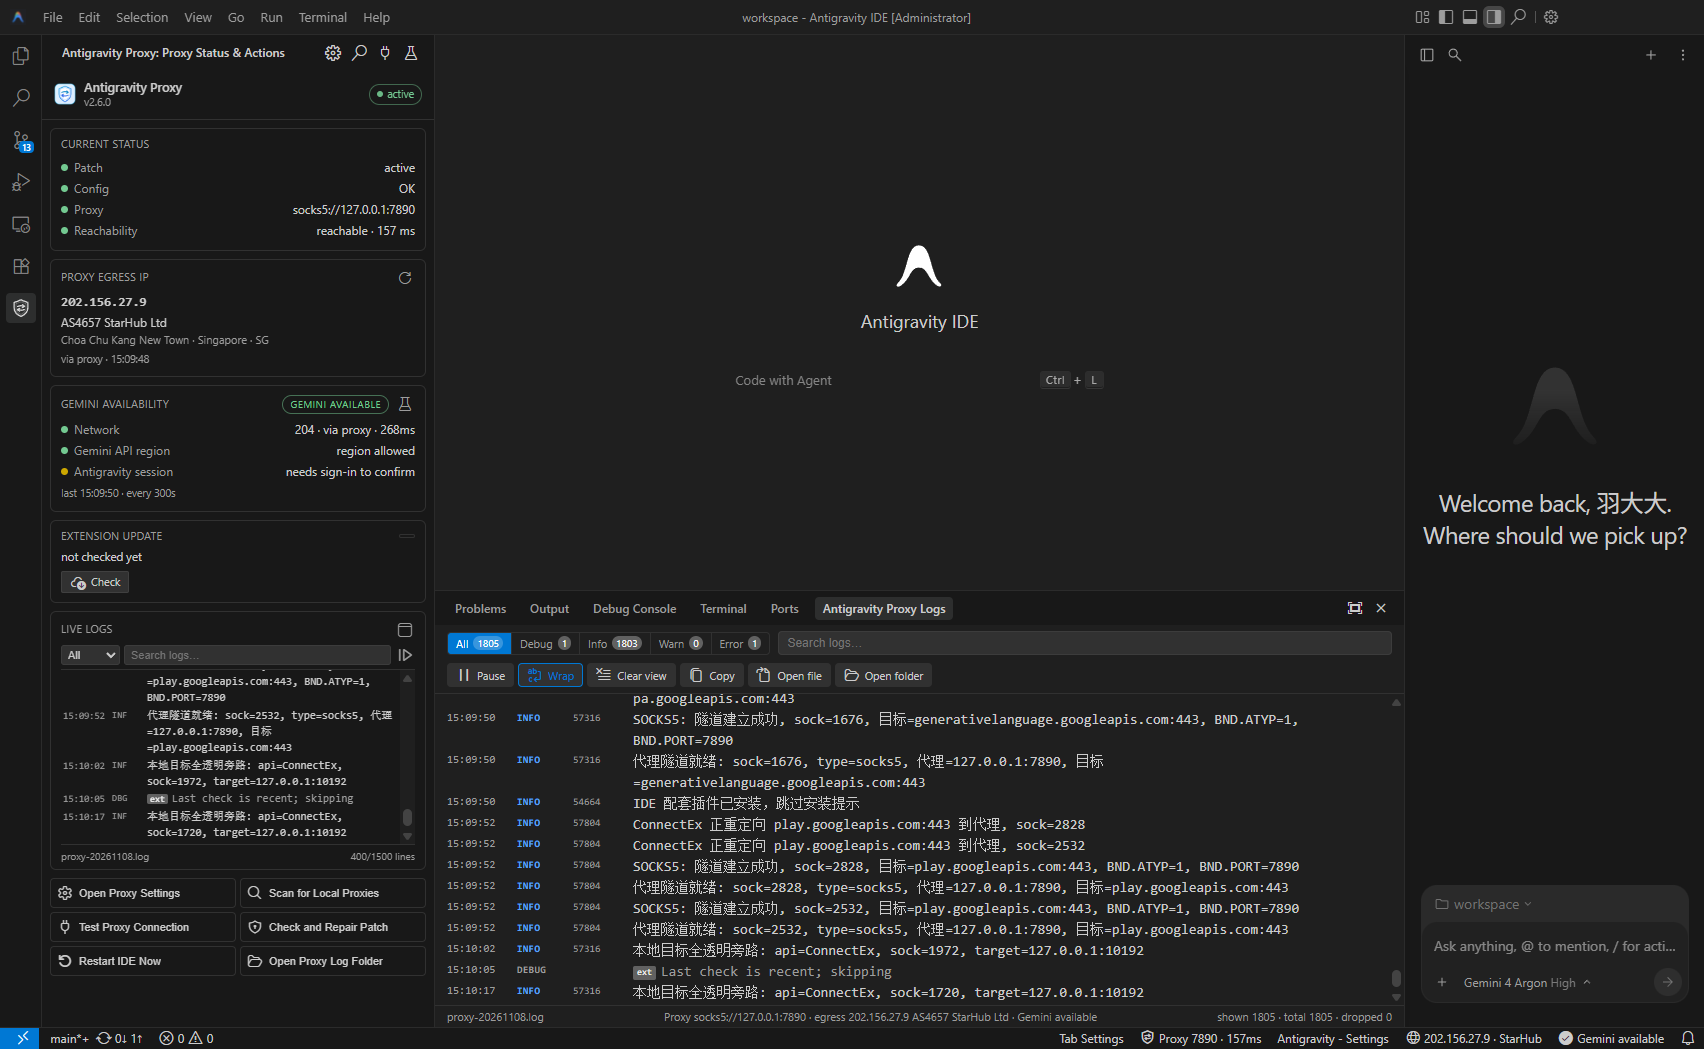
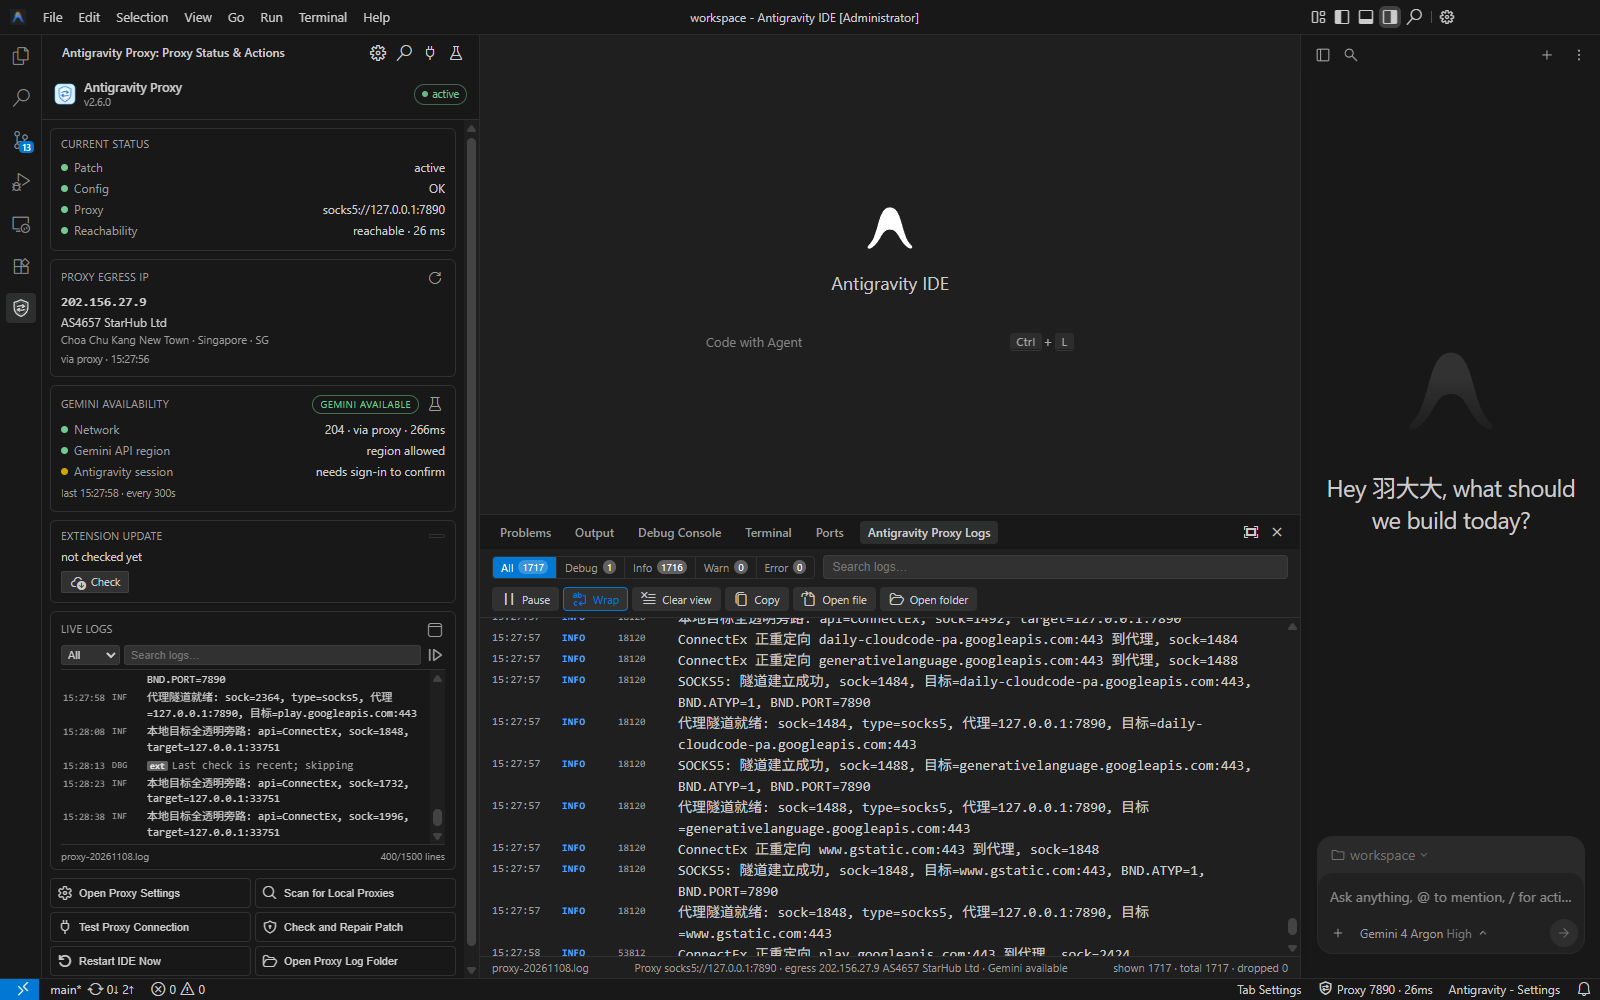
refactor(ide-extension): 合并状态栏条目至单一主条目及悬浮卡片
- 将原本独立的出口 IP 和 Gemini 状态栏条目合并至主状态条目。
- 出口 IP、Gemini 结论与插件更新信息移至状态栏悬浮卡片中展示。
- 移除 `statusBar.showEgress` 和 `statusBar.showGemini` 配置项。
- 更新中、英、俄三语文档，补充界面预览截图与相关说明。
- 优化状态栏空间占用，避免小屏幕下底部状态栏过于拥挤。

diff --git a/resources/ide-extension/lib/statusBar.js b/resources/ide-extension/lib/statusBar.js
@@ -4,13 +4,10 @@
 /**
  * 底部状态栏（单一职责：把状态模型渲染为状态栏文本/配色/动效/悬浮提示；不做任何 IO）。
  *
- * 三个条目（从右到左）：
- * 1) 主状态（priority 100）：补丁/配置/代理/连通，按"影响程度"只展示最需要处理的一项；
- * 2) 出口 IP（priority 99）：ipinfo 查到的代理出口 IP + 运营商（需求 3）；
- * 3) Gemini（priority 98）：Gemini/Antigravity 可用性结论（需求 4 的状态栏联动）。
- *
- * 主状态优先级不变；新增两项可分别用 antigravityProxy.statusBar.showEgress / showGemini 关闭，
- * 避免小屏幕状态栏过挤。
+ * 设计（2026-11-08 按用户反馈调整）：
+ * - 只保留 **一个** 状态栏条目，按"影响程度"只展示最需要处理的一项（补丁/配置/后端进程/待重启/端口/连通）；
+ * - 出口 IP·运营商、Gemini/Antigravity 结论、插件更新全部合并到同一个悬浮卡片里，不再额外占用底部空间；
+ * - 右侧侧栏与日志窗口仍完整展示这些信息，需要常驻查看时打开侧栏即可。
  */
 
 /**
@@ -30,6 +27,14 @@
 
 /** @typedef {(key: string, params?: Record<string, any>) => string} Translate */
 
+/** 本地时间 HH:mm:ss（悬浮卡片里的"上次检测"用） */
+function clock(ms) {
+  if (!ms) return "";
+  const d = new Date(ms);
+  const p = (n) => String(n).padStart(2, "0");
+  return `${p(d.getHours())}:${p(d.getMinutes())}:${p(d.getSeconds())}`;
+}
+
 class ProxyStatusBar {
   /**
    * @param {typeof import("vscode")} vscode
@@ -43,14 +48,6 @@ class ProxyStatusBar {
     this.item = vscode.window.createStatusBarItem("antigravityProxy.status", vscode.StatusBarAlignment.Right, 100);
     this.item.name = "Antigravity Proxy";
     this.item.command = "antigravityProxy.openSettings";
-
-    this.egressItem = vscode.window.createStatusBarItem("antigravityProxy.egress", vscode.StatusBarAlignment.Right, 99);
-    this.egressItem.name = "Antigravity Proxy · Egress IP";
-    this.egressItem.command = "antigravityProxy.focusSidebar";
-
-    this.geminiItem = vscode.window.createStatusBarItem("antigravityProxy.gemini", vscode.StatusBarAlignment.Right, 98);
-    this.geminiItem.name = "Antigravity Proxy · Gemini";
-    this.geminiItem.command = "antigravityProxy.checkGemini";
   }
 
   /** @param {StatusModel} m */
@@ -122,125 +119,43 @@ class ProxyStatusBar {
         : t("sb.reachOk");
       md.appendMarkdown(`| ${t("sb.rowReach")} | ${m.reach.ok ? `$(pass-filled) ${okStr}` : "$(warning) " + escapeMd(m.reach.message)} |\n`);
     }
+
+    // ---- 以下三项只在悬浮卡片里展示，不再单独占状态栏位置 ----
     const egress = m.egress;
     if (egress && egress.status === "ok" && egress.data) {
-      md.appendMarkdown(`| ${t("sb.rowEgress")} | \`${escapeMd(egress.data.ip)}\` ${escapeMd([egress.data.asn, egress.data.orgName].filter(Boolean).join(" "))} |\n`);
+      const via = egress.via === "proxy" ? t("side2.ipViaProxy") : t("side2.ipViaDirect");
+      const time = clock(egress.checkedAt);
+      md.appendMarkdown(`| ${t("side2.ipTitle")} | \`${escapeMd(egress.data.ip || "")}\` ${escapeMd([egress.data.asn, egress.data.orgName].filter(Boolean).join(" "))}${time ? ` · ${escapeMd(t("side2.geminiLastChecked", { time }))}` : ""} · ${via} |\n`);
     }
     const gem = m.gemini;
-    if (gem && gem.result) {
-      md.appendMarkdown(`| ${t("sb.rowGemini")} | ${geminiIcon(gem.result.state)} ${escapeMd(geminiText(gem.result.state, t))} |\n`);
+    if (gem && gem.checking) {
+      md.appendMarkdown(`| ${t("side2.geminiTitle")} | $(sync~spin) ${escapeMd(t("side2.geminiChecking"))} |\n`);
+    } else if (gem && gem.result) {
+      const time = clock(gem.result.checkedAt);
+      md.appendMarkdown(`| ${t("side2.geminiTitle")} | ${geminiIcon(gem.result.state)} ${escapeMd(geminiText(gem.result.state, t))}${time ? ` · ${escapeMd(t("side2.geminiLastChecked", { time }))}` : ""} |\n`);
     }
     if (m.update && m.update.status === "available") {
       md.appendMarkdown(`| ${t("sb.rowUpdate")} | $(cloud-download) ${escapeMd(t("sb.updateAvailable", { latest: m.update.latestTag }))} |\n`);
     }
+
     md.appendMarkdown(`\n[$(settings-gear) ${t("sb.linkSettings")}](command:antigravityProxy.openSettings)`);
     md.appendMarkdown(` · [$(search) ${t("sb.linkScan")}](command:antigravityProxy.scanProxy)`);
     md.appendMarkdown(` · [$(plug) ${t("sb.linkTest")}](command:antigravityProxy.testProxy)`);
     md.appendMarkdown(` · [$(folder-opened) ${t("sb.linkLogs")}](command:antigravityProxy.openLogs)`);
-    if (egress && egress.status === "ok") md.appendMarkdown(` · [$(globe) ${t("sb.linkSidebar")}](command:antigravityProxy.focusSidebar)`);
+    md.appendMarkdown(` · [$(window) ${t("sb.linkSidebar")}](command:antigravityProxy.focusSidebar)`);
     if (!m.patch.dllExists) md.appendMarkdown(` · [$(cloud-download) ${t("sb.linkRepair")}](command:antigravityProxy.repairPatch)`);
     if (missingTargets.length > 0) md.appendMarkdown(` · [$(wrench) ${t("sb.linkFixTargets")}](command:antigravityProxy.fixTargets)`);
     if (m.pendingRestart || m.patch.needsRestart) md.appendMarkdown(` · [$(debug-restart) ${t("sb.linkRestart")}](command:antigravityProxy.restartIde)`);
     this.item.tooltip = md;
     this.item.show();
-
-    this.renderEgress(m);
-    this.renderGemini(m);
-  }
-
-  /** @param {StatusModel} m */
-  renderEgress(m) {
-    const { ThemeColor, MarkdownString } = this.vscode;
-    const t = this.t;
-    const cfg = this.vscode.workspace.getConfiguration("antigravityProxy");
-    const enabled = cfg.get("statusBar.showEgress", true) !== false;
-    const state = m.egress;
-    if (!enabled || !state || (state.status !== "ok" && state.status !== "loading")) {
-      this.egressItem.hide();
-      return;
-    }
-    if (state.status === "loading") {
-      this.egressItem.text = `$(globe~spin) ${t("side2.ipLoading")}`;
-      this.egressItem.tooltip = t("side2.ipLoading");
-      this.egressItem.backgroundColor = undefined;
-      this.egressItem.show();
-      return;
-    }
-    const data = state.data || {};
-    const shortOrg = String(data.orgName || "").split(/\s+/)[0] || "";
-    this.egressItem.text = `$(globe) ${data.ip || "—"}${shortOrg ? ` · ${shortOrg}` : ""}`;
-    this.egressItem.backgroundColor = data.datacenter ? new ThemeColor("statusBarItem.warningBackground") : undefined;
-    this.egressItem.accessibilityInformation = {
-      label: t("sb.egressA11y", { ip: data.ip || "", org: [data.asn, data.orgName].filter(Boolean).join(" ") || "" }),
-      role: "button",
-    };
-    const md = new MarkdownString(undefined, true);
-    md.isTrusted = { enabledCommands: ["antigravityProxy.focusSidebar", "antigravityProxy.refreshIp", "antigravityProxy.checkGemini"] };
-    md.appendMarkdown(`**${t("side2.ipTitle")}**\n\n| | |\n|:--|:--|\n`);
-    md.appendMarkdown(`| ${t("side2.ipAddress")} | \`${escapeMd(data.ip || "")}\` |\n`);
-    md.appendMarkdown(`| ${t("side2.ipIsp")} | ${escapeMd([data.asn, data.orgName].filter(Boolean).join(" ") || t("side2.ipUnknown"))} |\n`);
-    md.appendMarkdown(`| ${t("side2.ipLocation")} | ${escapeMd([data.city, data.region, data.country].filter(Boolean).join(" · "))} |\n`);
-    md.appendMarkdown(`| ${t("side2.ipSource")} | ${state.via === "proxy" ? t("side2.ipViaProxy") : t("side2.ipViaDirect")} |\n`);
-    if (data.datacenter) md.appendMarkdown(`\n$(warning) ${t("side2.ipDatacenterHint")}\n`);
-    md.appendMarkdown(`\n[$(refresh) ${t("side2.ipRefresh")}](command:antigravityProxy.refreshIp) · [$(beaker) ${t("sb.linkGemini")}](command:antigravityProxy.checkGemini) · [$(window) ${t("sb.linkSidebar")}](command:antigravityProxy.focusSidebar)`);
-    this.egressItem.tooltip = md;
-    this.egressItem.show();
-  }
-
-  /** @param {StatusModel} m */
-  renderGemini(m) {
-    const { ThemeColor, MarkdownString } = this.vscode;
-    const t = this.t;
-    const cfg = this.vscode.workspace.getConfiguration("antigravityProxy");
-    const enabled = cfg.get("statusBar.showGemini", true) !== false;
-    const gem = m.gemini;
-    if (!enabled || !gem || (!gem.result && !gem.checking)) {
-      this.geminiItem.hide();
-      return;
-    }
-    if (gem.checking) {
-      this.geminiItem.text = `$(sync~spin) ${t("sb.geminiChecking")}`;
-      this.geminiItem.backgroundColor = undefined;
-      this.geminiItem.tooltip = t("side2.geminiChecking");
-      this.geminiItem.show();
-      return;
-    }
-    const result = gem.result;
-    const kind = result.state;
-    /** @type {Record<string, { icon: string, text: string, bg?: string }>} */
-    const map = {
-      ok: { icon: "pass-filled", text: t("sb.geminiOk") },
-      blocked: { icon: "warning", text: t("sb.geminiBlocked"), bg: "statusBarItem.warningBackground" },
-      inconclusive: { icon: "question", text: t("sb.geminiInconclusive") },
-      error: { icon: "error", text: t("sb.geminiError"), bg: "statusBarItem.warningBackground" },
-      "proxy-error": { icon: "warning", text: t("sb.geminiProxyError"), bg: "statusBarItem.warningBackground" },
-    };
-    const view = map[kind] || map.inconclusive;
-    this.geminiItem.text = `$(${view.icon}) ${view.text}`;
-    this.geminiItem.backgroundColor = view.bg ? new ThemeColor(view.bg) : undefined;
-    this.geminiItem.accessibilityInformation = { label: `${t("side2.geminiTitle")}: ${view.text}`, role: "button" };
-    const md = new MarkdownString(undefined, true);
-    md.isTrusted = { enabledCommands: ["antigravityProxy.checkGemini", "antigravityProxy.focusSidebar"] };
-    md.appendMarkdown(`**${t("side2.geminiTitle")}** — ${view.text}\n\n| | |\n|:--|:--|\n`);
-    md.appendMarkdown(`| ${t("side2.geminiNetwork")} | ${result.network && result.network.ok ? "$(pass-filled) " + escapeMd(String(result.network.status)) : "$(error) " + escapeMd((result.network && result.network.error) || "")} |\n`);
-    md.appendMarkdown(`| ${t("side2.geminiApi")} | ${geminiIcon(result.geminiApi && result.geminiApi.state)} ${escapeMd(geminiLayerText(result.geminiApi && result.geminiApi.state, t))} |\n`);
-    md.appendMarkdown(`| ${t("side2.geminiAntigravity")} | ${geminiIcon(result.antigravity && result.antigravity.state)} ${escapeMd(geminiLayerText(result.antigravity && result.antigravity.state, t))} |\n`);
-    if (result.logEvidence && result.logEvidence.matched) md.appendMarkdown(`\n$(warning) ${escapeMd(t("side2.geminiLogMatched", { time: "" }))}\n`);
-    md.appendMarkdown(`\n[$(beaker) ${t("side2.geminiCheck")}](command:antigravityProxy.checkGemini) · [$(window) ${t("sb.linkSidebar")}](command:antigravityProxy.focusSidebar)`);
-    this.geminiItem.tooltip = md;
-    this.geminiItem.show();
   }
 
   hide() {
     this.item.hide();
-    this.egressItem.hide();
-    this.geminiItem.hide();
   }
 
   dispose() {
     this.item.dispose();
-    this.egressItem.dispose();
-    this.geminiItem.dispose();
   }
 }
 
@@ -258,16 +173,6 @@ function geminiText(state, t) {
 /** @param {string} state */
 function geminiIcon(state) {
   return { ok: "$(pass-filled)", blocked: "$(warning)", inconclusive: "$(question)", error: "$(error)", "proxy-error": "$(warning)" }[/** @type {any} */ (state)] || "$(question)";
-}
-
-/** @param {string} state @param {Translate} t */
-function geminiLayerText(state, t) {
-  return {
-    ok: t("side2.geminiLayerOk"),
-    blocked: t("side2.geminiLayerBlocked"),
-    inconclusive: t("side2.geminiLayerUnknown"),
-    error: t("side2.geminiLayerError"),
-  }[/** @type {any} */ (state)] || t("side2.geminiLayerUnknown");
 }
 
 /** @param {import("./patchGuard").PatchStatus} p @param {Translate} t */

diff --git a/README_EN.md b/README_EN.md
@@ -29,7 +29,7 @@ Antigravity-Proxy is a proxy patch (DLL) that works once you put it in the Antig
 - No TUN mode and no administrator rights needed;
 - Supports SOCKS5 / HTTP proxies (including username/password authentication);
 - Supports **Antigravity IDE**, **Antigravity** (desktop) and **Antigravity CLI** (`agy`);
-- Antigravity IDE comes with a companion extension: proxy status in the status bar, visual settings, and automatic patch restore after IDE updates.
+- Antigravity IDE comes with a companion extension: proxy status, visual settings, live logs, egress IP/Gemini checks, extension self-update, and automatic patch restore after IDE updates.
 
 ## Installation
 
@@ -86,10 +86,14 @@ Restart the app after deployment.
 
 ## Antigravity IDE Extension
 
-- **Status bar**: shows the proxy status at the bottom; click it to open the settings panel;
+- **Status bar**: one single item at the bottom; click it to open the settings panel. Egress IP/ISP, the Gemini result and extension updates live in the same hover card;
+- **Sidebar**: patch/config/proxy/reachability, egress IP, three-layer Gemini result, live logs, extension update and quick actions;
+- **Log window**: built-in bottom panel with level filters, keyword search, pause/copy and open file/folder;
 - **Settings panel**: edit the proxy visually, "Test connection" before saving, old config is backed up automatically;
 - **First-run guide**: when the proxy is unavailable, opens the settings and scans for local proxies (current config, IDE proxy settings, system proxy, environment variables, common ports); fill in a found proxy with one click;
+- **Gemini check**: three layers (network / Gemini API region / Antigravity session), configurable interval, mirrored in the sidebar;
 - **Patch guard**: if an IDE update deletes the patch, it is restored on the next start (you will be asked to restart);
+- **Self-update**: local proxy → GitHub mirror → direct, SHA256 verified before install;
 - UI in Chinese / English / Russian, following the IDE language by default.
 
 **Install**: online install and `doctor` install it automatically. After a manual deployment, if the extension is not installed, the IDE shows a system notification on startup (once per patch version; ignoring it means no further reminders). If the extension package sits next to the patch, clicking the notification installs it locally; if only `version.dll` was copied, clicking asks for confirmation first and then opens a PowerShell window to install the extension online. You can also use Extensions view → `…` at the top right → "Install from VSIX...".
@@ -109,6 +113,14 @@ Restart the app after deployment.
 | `antigravityProxy.patchGuard.autoRestore` | `true` | Restore a patch removed by an update at startup |
 | `antigravityProxy.statusBar.enabled` | `true` | Show the status bar item |
 | `antigravityProxy.statusBar.probeIntervalSeconds` | `60` | Proxy reachability check interval (seconds); `0` = check only at startup and after saving |
+
+### Preview
+
+| 简体中文 | English | Русский |
+|:--:|:--:|:--:|
+| ![Chinese UI](docs/images/ide-extension/logview.zh-cn.png) | ![English UI](docs/images/ide-extension/logview.png) | ![Russian UI](docs/images/ide-extension/logview.ru.png) |
+
+> Screenshots taken in Antigravity IDE 1.107.0 (Windows): sidebar and the built-in "Proxy Logs" panel. The IDE chrome follows the IDE language; extension strings follow `antigravityProxy.language`.
 
 See [docs/ide-extension.md](docs/ide-extension.md) for more.
 

diff --git a/docs/ide-extension.md b/docs/ide-extension.md
@@ -42,7 +42,7 @@ lib/logTail.js                      日志发现与增量尾随（10MB 截断、
 lib/logService.js                   环形缓冲 + 200ms 批量广播（DLL 日志与插件事件合并）
 lib/logView.js                      底部面板日志 WebviewView + 编辑器标签页兜底
 lib/sidebarView.js                  左侧活动栏 WebviewView 宿主（状态/IP/Gemini/日志/更新）
-lib/statusBar.js                    三个状态栏条目：主状态 / 出口 IP / Gemini
+lib/statusBar.js                    单一状态栏条目（出口 IP / Gemini / 更新合并在悬浮卡片）
 lib/webviewHtml.js                  Webview CSP/HTML 生成（nonce、资源 URI、首帧数据）
 lib/configPanel.js                  Webview 宿主侧：单例面板、CSP、消息路由、保存前二次校验
 lib/restart.js                      两段式重启器
@@ -114,16 +114,18 @@ StatusModel = {
 - **连通检测**：状态栏只做轻量 TCP 检测（间隔 `statusBar.probeIntervalSeconds`，最小 10 秒，0 为仅启动/保存后）；
   面板“测试连接”与命令 `测试代理连接` 做完整隧道检测（握手 → 认证 → CONNECT `www.gstatic.com:443`），
   失败时按阶段（config/tcp/handshake/auth/tunnel）以当前界面语言给出原因。
-- 无障碍：三个状态栏项都设置 `accessibilityInformation`（role=button，朗读完整状态与操作提示）。
+- 无障碍：状态栏项设置 `accessibilityInformation`（role=button，朗读完整状态与操作提示）。
 
-### 3.1 新增的两个状态栏条目
+### 3.1 状态栏信息合并（2026-11-08 调整）
 
-| 条目 | 内容 | 点击 | 关闭方式 |
-|:--|:--|:--|:--|
-| 出口 IP（priority 99） | `$(globe) 202.156.27.9 · StarHub`，悬浮卡片含 ASN/位置/来源/机房提示/刷新 | 打开左侧栏 | `antigravityProxy.statusBar.showEgress` |
-| Gemini（priority 98） | `$(pass-filled) Gemini 可用` / `$(warning) Gemini 区域受限` / `$(question) 无法判定` | 立即检测 | `antigravityProxy.statusBar.showGemini` |
+早期版本把出口 IP 与 Gemini 各做成一个独立状态栏条目，底部会同时出现三项（例如 `Proxy 7890`、`202.156.27.9 · StarHub`、`Gemini available`），占用过宽。
 
-主状态项的悬浮卡片同步增加「出口 IP」「Gemini」「插件更新」三行；优先级顺序不变，避免新功能盖过补丁缺失/配置异常。
+现已合并为**单一主条目**：
+
+- 文本仍只显示"最需要处理"的一项（补丁缺失 / 配置异常 / 缺少 agy.exe / 待重启 / 端口 / 连通）；
+- 悬浮卡片内新增「出口 IP（ASN + 运营商 + 来源 + 上次时间）」「Gemini（三层结论 + 上次检测时间）」「插件更新」三行；
+- 需要常驻查看时点击状态栏或「打开侧栏」，左侧栏与日志窗口页脚仍完整展示这些信息；
+- 原 `antigravityProxy.statusBar.showEgress` / `showGemini` 设置已移除，避免出现"关不掉的空条目"。
 
 ### 3.2 实时日志窗口
 
